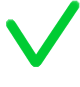
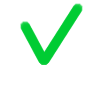
animaties en gekke dingen van Anne erbij gebouwd

Changed region(s): [[0.075, 0.0, 1.0, 0.7816], [0.5, 0.4828, 0.55, 0.5287]]

diff --git a/MuseumOrNot/public/stylesheets/main.css b/MuseumOrNot/public/stylesheets/main.css
@@ -100,7 +100,7 @@ button {
   margin-left:-100px;
   top:35px;
   font-size:30px;
-  font-style:italic;
+
 }
 
 .user-score {
@@ -217,19 +217,19 @@ z-index:10000;
 
 .rightwrong-icon {
   position:absolute;
-  left:50%;
+  left:0%;
   margin-left:-230px;
-  top:200px;
-  width:50px;
-  height:50px;
+  top:190px;
+  width:90px;
+  height:90px;
 }
 
 .result-message {
-  font-size:30px;
+  font-size:40px;
   position:absolute;
-  left:50%;
+  left:100%;
   top:190px;
-  margin-left:-160px;
+  margin-left:-100px;
   width:400px;
   height:180px;
   color:yellow;
@@ -245,17 +245,18 @@ z-index:10000;
   position:absolute;
   z-index:1000;
   background:url(/public/images/gelebutton1.png);
+  opacity:0;
 }
 
 .result-image {
   position:absolute;
   left:50%;
   margin-left:-260px;
-  top:400px;
+  top:500px;
 }
 
 .result-image img {
-  width:240px;
+  width:520px;
 }
 
 .explanation {
@@ -263,8 +264,8 @@ z-index:10000;
   position:absolute;
   left:50%;
   top:400px;
-  margin-left:-10px;
-  width:400px;
+  margin-left:-260px;
+  width:520px;
   height:200px;
   font-size:30px;
   

diff --git a/MuseumOrNot/app/views/main.html b/MuseumOrNot/app/views/main.html
@@ -23,7 +23,13 @@
         
         $(document).ready(function() 
         {
-        	setTimeout("$('body').removeClass('loading');", 200);
+        	$('.rightwrong-icon').animate({left:'50%'});
+        	$('.result-message').animate({left:'50%'});
+        	setTimeout("$('.user-score').css('display','block'); $('.user-score').animate({fontSize:'40px', left:'50%'});", 1500);
+        	
+        	setTimeout("$('.next-button').animate({opacity:1});", 2500);
+        	
+        	//setTimeout("$('body').removeClass('loading');", 200);
         	
         	 $('.number-1').click(function() { focus(1); } );
         	 $('.number-2').click(function() { focus(2); } );
@@ -38,6 +44,7 @@
         	        window.scrollTo(0, 1);
         	        }
         	        
+        	 
         });
         
         function focus(nr)
@@ -100,7 +107,7 @@
         }
         </script>
     </head>
-    <body class="loading">
+    <body xclass="loading">
         #{doLayout /}
         <img src="/public/images/ajax-loader.gif" class="loader" />
     </body>

diff --git a/MuseumOrNot/app/views/Application/vote.html b/MuseumOrNot/app/views/Application/vote.html
@@ -2,6 +2,10 @@
 #{set title:'Home' /}
 #{topbar user:user /}
 
+<style>
+.user-score { font-size:500px; display:none; top:80px; left:25%}
+</style>
+
 <div class="content-area voted">
 
   <div class="main-area">

diff --git a/MuseumOrNot/app/views/tags/topbar.html b/MuseumOrNot/app/views/tags/topbar.html
@@ -11,7 +11,7 @@
   </div>
   
   <div class="user-reputation">
-    ${_user?.getReputationLabel()}
+    ${_user?.reputation_label}
   </div>
 
   <div class="user-score">

diff --git a/MuseumOrNot/app/models/User.java b/MuseumOrNot/app/models/User.java
@@ -5,6 +5,7 @@ import java.nio.charset.Charset;
 import java.security.MessageDigest;
 import java.security.SecureRandom;
 import java.util.Date;
+import java.util.Hashtable;
 import java.util.List;
 
 import org.apache.commons.codec.binary.Base64;
@@ -90,6 +91,7 @@ public class User extends EnhancedModel {
 	// 
 	
 	public int reputation;
+	public String reputation_label;
 	public int score;
 	
 	public int num_tries;
@@ -112,6 +114,7 @@ public class User extends EnhancedModel {
 	  this.invited_date = new Date();
 	  this.authentication_type = AUTHENTICATION_TYPE_UNDEFINED;
 	  this.has_no_password = true;
+	  this.reputation_label = "Intern";
 	}
 	
 	public User(String username, String fullname, String email) {
@@ -124,6 +127,7 @@ public class User extends EnhancedModel {
 		this.account_status = ACCOUNT_STATUS_ACTIVE;
 		
 		this.authentication_type = AUTHENTICATION_TYPE_NORMAL;
+		this.reputation_label = "Intern";
 	}
 
 	public User(com.google.appengine.api.users.User googleUser,
@@ -148,6 +152,8 @@ public class User extends EnhancedModel {
 		
 		// note: has_no_password was set to true by "setPassword", but we need to set it to False, because we're googleIO user
 		this.has_no_password = true;
+		
+	  this.reputation_label = "Intern";
 		this.save();
 	}
 	
@@ -290,17 +296,7 @@ public class User extends EnhancedModel {
    return false;
   }
 
-  public String getReputationLabel()
-  {
-    switch (reputation)
-    {
-    case 0: return "Intern";
-    
-    case 100: return "Demi God Curator";
-    case 101: return "Museum Director";
-    default: return "In-between-jobs";
-    }
-  }
+ 
 
   public void processCorrect() {
     score = score + 2;
@@ -315,6 +311,54 @@ public class User extends EnhancedModel {
     num_wrong = num_wrong + 1;
     num_tries = num_tries + 1;
     
+    
+  }
+  
+  public int pointsToNextLevel()
+  {
+    Hashtable<String,Integer> t = getLevels();
+    String foundLevel = "Intern";
+    int foundScore = 0;
+    for (String name:t.keySet())
+    {
+      int c = t.get(name);
+      if (c>this.score)
+      {
+        // too far ahead
+        this.reputation_label = foundLevel;
+        return (c - this.score);
+      }
+      
+      foundLevel = name;
+      foundScore = c;
+    
+    }
+    return 0;
+  }
+  
+  public static Hashtable<String, Integer> getLevels()
+  {
+    Hashtable<String,Integer> t = new Hashtable();
+    t.put("Intern", 0);
+    t.put("Art Handler", 3);
+    t.put("Assistant to the Trainee", 7);
+    t.put("Trainee", 20);
+    t.put("Attendant", 40);
+    t.put("Social Media Officer", 50);
+    t.put("Researcher", 75);
+    t.put("Collection Manager", 100);
+    t.put("Registrar", 110);
+    t.put("Junior Curator", 125);
+    t.put("Curator", 150);
+    t.put("Senior Curator", 200);
+    t.put("Head of Spin", 235);
+    t.put("King of Spin", 275);
+    t.put("Demi God Curator", 350);
+    t.put("Museum Director", 500);
+    t.put("Spinny Bar Trustee", 2000);
+    t.put("David Bearman :)", 5000);
+    
+    return t;
     
   }
 

diff --git a/MuseumOrNot/app/controllers/Application.java b/MuseumOrNot/app/controllers/Application.java
@@ -80,7 +80,7 @@ public class Application extends AuthenticatedBaseController {
       {
         user.processWrong();
         correct=false;
-        message = "Oh,<br/>It's not in a museum (yet)";
+        message = "Oh, it's not<br/>in a museum (yet)";
         explanation = "This is <u>"+obj.title+"</u> from <u>"+obj.institution+"</u>";
       }
       
